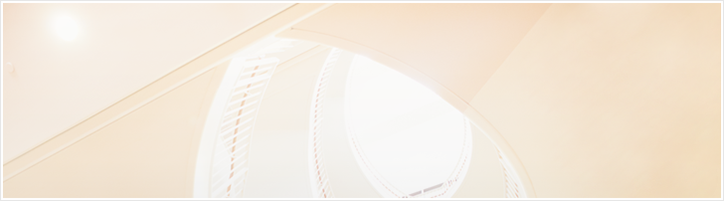
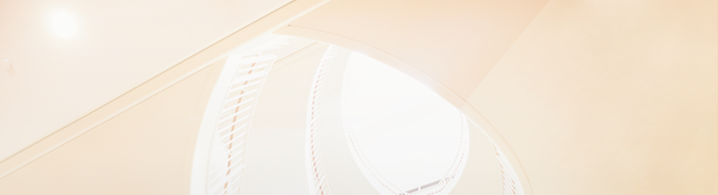
WP-1338: fix issues with upcoming events bg.

diff --git a/css/style.css b/css/style.css
@@ -74,7 +74,7 @@ pre, code, kbd, tt {
 .shadowed-box, .designed-box,
 .person-list-view,
 .pane-gsb-event-sidebar, .pane-bundle-links, .pane-bundle-text, .pane-bundle-video, .pane-gsb-event-upcoming-events, .pane-bundle-spotlight, .pane-bundle-accordion, .cta-red .field-item, .gsb-views-exposed-form, .exposed_filter_widget > div, .pane-bundle-existing-node .view-mode-teaser, .pane-gsb-feature-faculty-display-az-list .pane-content, .view-display-id-club_list .view-content,
-.view-display-id-search_club .view-content, .pane-lastname-az-links, .pane-bundle-image-cta .group-left img, .learn-about-campus, .pane-program-finder .field-group-tab-wrapper, .slideshow-wrapper, .cta-virtual-tour:hover, .cta-rethink, .pane-program-finder div.vertical-tabs, .pane-program-finder div.vertical-tabs ul.vertical-tabs-list .selected {
+.view-display-id-search_club .view-content, .pane-lastname-az-links, .pane-bundle-image-cta .group-left img, .learn-about-campus, .pane-gsb-event-frontpage, .pane-program-finder .field-group-tab-wrapper, .slideshow-wrapper, .cta-virtual-tour:hover, .cta-rethink, .pane-program-finder div.vertical-tabs, .pane-program-finder div.vertical-tabs ul.vertical-tabs-list .selected {
   border: 2px white solid;
 }
 
@@ -93,7 +93,7 @@ pre, code, kbd, tt {
 .shadowed-box, .designed-box,
 .person-list-view,
 .pane-gsb-event-sidebar, .pane-bundle-links, .pane-bundle-text, .pane-bundle-video, .pane-gsb-event-upcoming-events, .pane-bundle-spotlight, .pane-bundle-accordion, .cta-red .field-item, .gsb-views-exposed-form, .exposed_filter_widget > div, .pane-bundle-existing-node .view-mode-teaser, .pane-gsb-feature-faculty-display-az-list .pane-content, .view-display-id-club_list .view-content,
-.view-display-id-search_club .view-content, .pane-lastname-az-links, .pane-bundle-image-cta .group-left img, .learn-about-campus, .pane-program-finder .field-group-tab-wrapper, .view-mode-business_insight, .slideshow-wrapper, .cta-virtual-tour, .pane-gsb-event-frontpage, .pane-media-toolkit {
+.view-display-id-search_club .view-content, .pane-lastname-az-links, .pane-bundle-image-cta .group-left img, .learn-about-campus, .pane-gsb-event-frontpage, .pane-program-finder .field-group-tab-wrapper, .view-mode-business_insight, .slideshow-wrapper, .cta-virtual-tour, .pane-media-toolkit {
   -webkit-box-shadow: rgba(0, 0, 0, 0.1) 2px 2px 2px, rgba(0, 0, 0, 0.1) 0 0 0 1px;
   -moz-box-shadow: rgba(0, 0, 0, 0.1) 2px 2px 2px, rgba(0, 0, 0, 0.1) 0 0 0 1px;
   box-shadow: rgba(0, 0, 0, 0.1) 2px 2px 2px, rgba(0, 0, 0, 0.1) 0 0 0 1px;
@@ -4765,20 +4765,20 @@ p.acc-title + p {
 
 .pane-gsb-event-frontpage {
   background: url('../images/bg-homepage-events.png') no-repeat;
-  height: 401px;
-  margin-right: 0;
+  height: 397px;
   padding: 26px;
 }
 @media (max-width: 48em) {
   .pane-gsb-event-frontpage {
     background: url('../images/bg-homepage-events-wide.png') no-repeat;
-    height: 201px;
+    height: 199px;
+    margin-right: 4px;
   }
 }
 @media (max-width: 30em) {
   .pane-gsb-event-frontpage {
     background: url('../images/bg-homepage-events-narrow.png') no-repeat;
-    height: 258px;
+    height: 256px;
     max-width: 450px;
   }
 }

diff --git a/sass/revamp-design/_front.sass b/sass/revamp-design/_front.sass
@@ -70,17 +70,17 @@
 
 // UPCOMING EVENTS
 .pane-gsb-event-frontpage
-  @extend %box-shadow
+  @extend %border-and-box-shadow
   background: image_url("bg-homepage-events.png") no-repeat
-  height: 401px
-  margin-right: 0
+  height: 397px
   padding: 26px
   +breakpoint($bp-portrait-max)
     background: image_url("bg-homepage-events-wide.png") no-repeat
-    height: 201px
+    height: 199px
+    margin-right: 4px
   +breakpoint($bp-mobile-max)
     background: image_url("bg-homepage-events-narrow.png") no-repeat
-    height: 258px
+    height: 256px
     max-width: 450px
   .view-gsb-event .view-content .views-row
     border-bottom: 0
